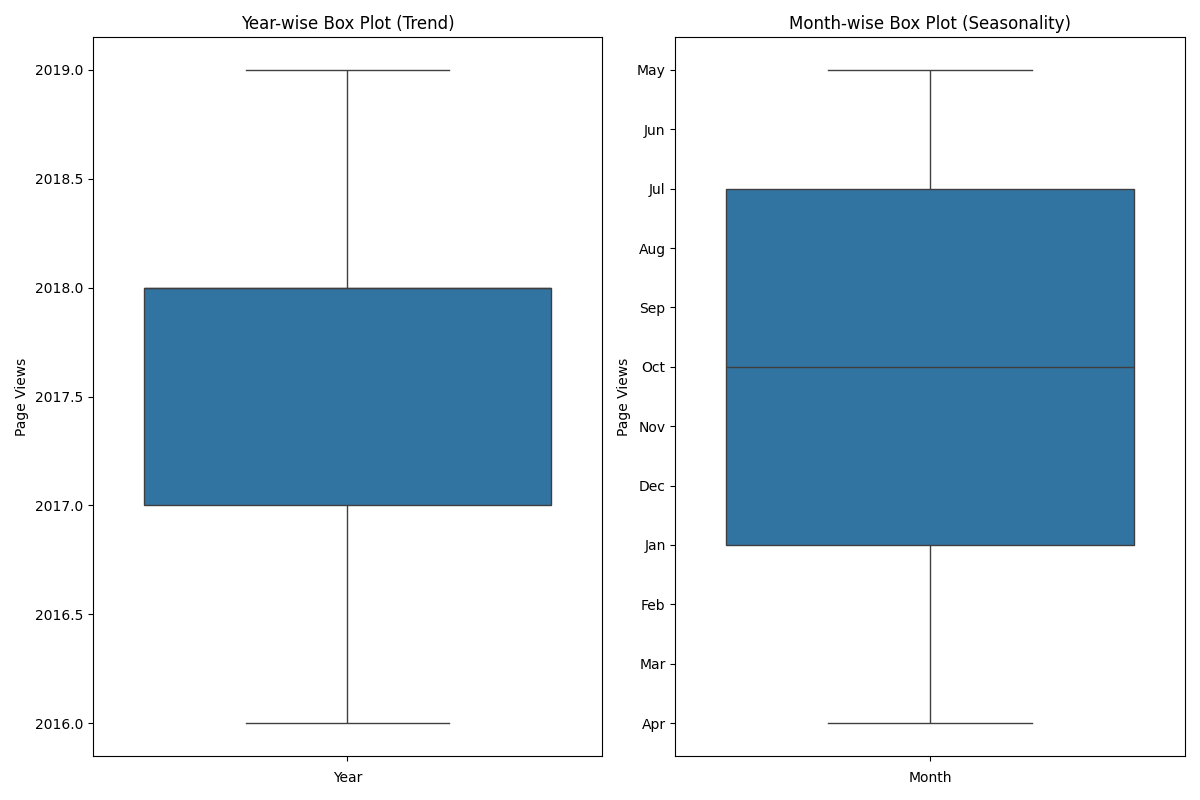
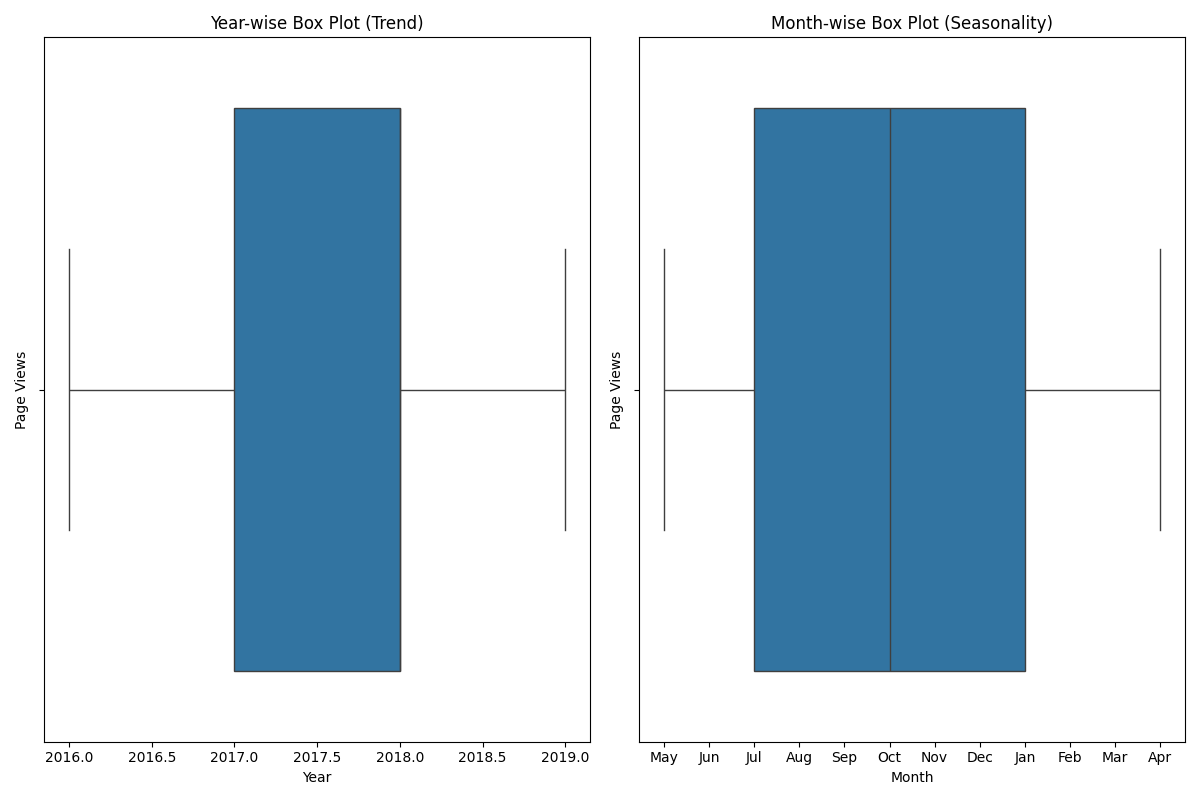
Refactor box plot visualization to properly label x-axis for year and month data

diff --git a/time_series_visualizer.py b/time_series_visualizer.py
@@ -122,8 +122,8 @@ def draw_box_plot():
     fig, (ax1, ax2) = plt.subplots(1, 2, figsize=(12, 8))
 
     # Draw box plots (using Seaborn)
-    sns.boxplot(year_df, ax=ax1)
-    sns.boxplot(month_df, ax=ax2)
+    sns.boxplot(x=year_df, ax=ax1)
+    sns.boxplot(x=month_df, ax=ax2)
 
     # Set titles for each subplot
     ax1.set_title('Year-wise Box Plot (Trend)')
